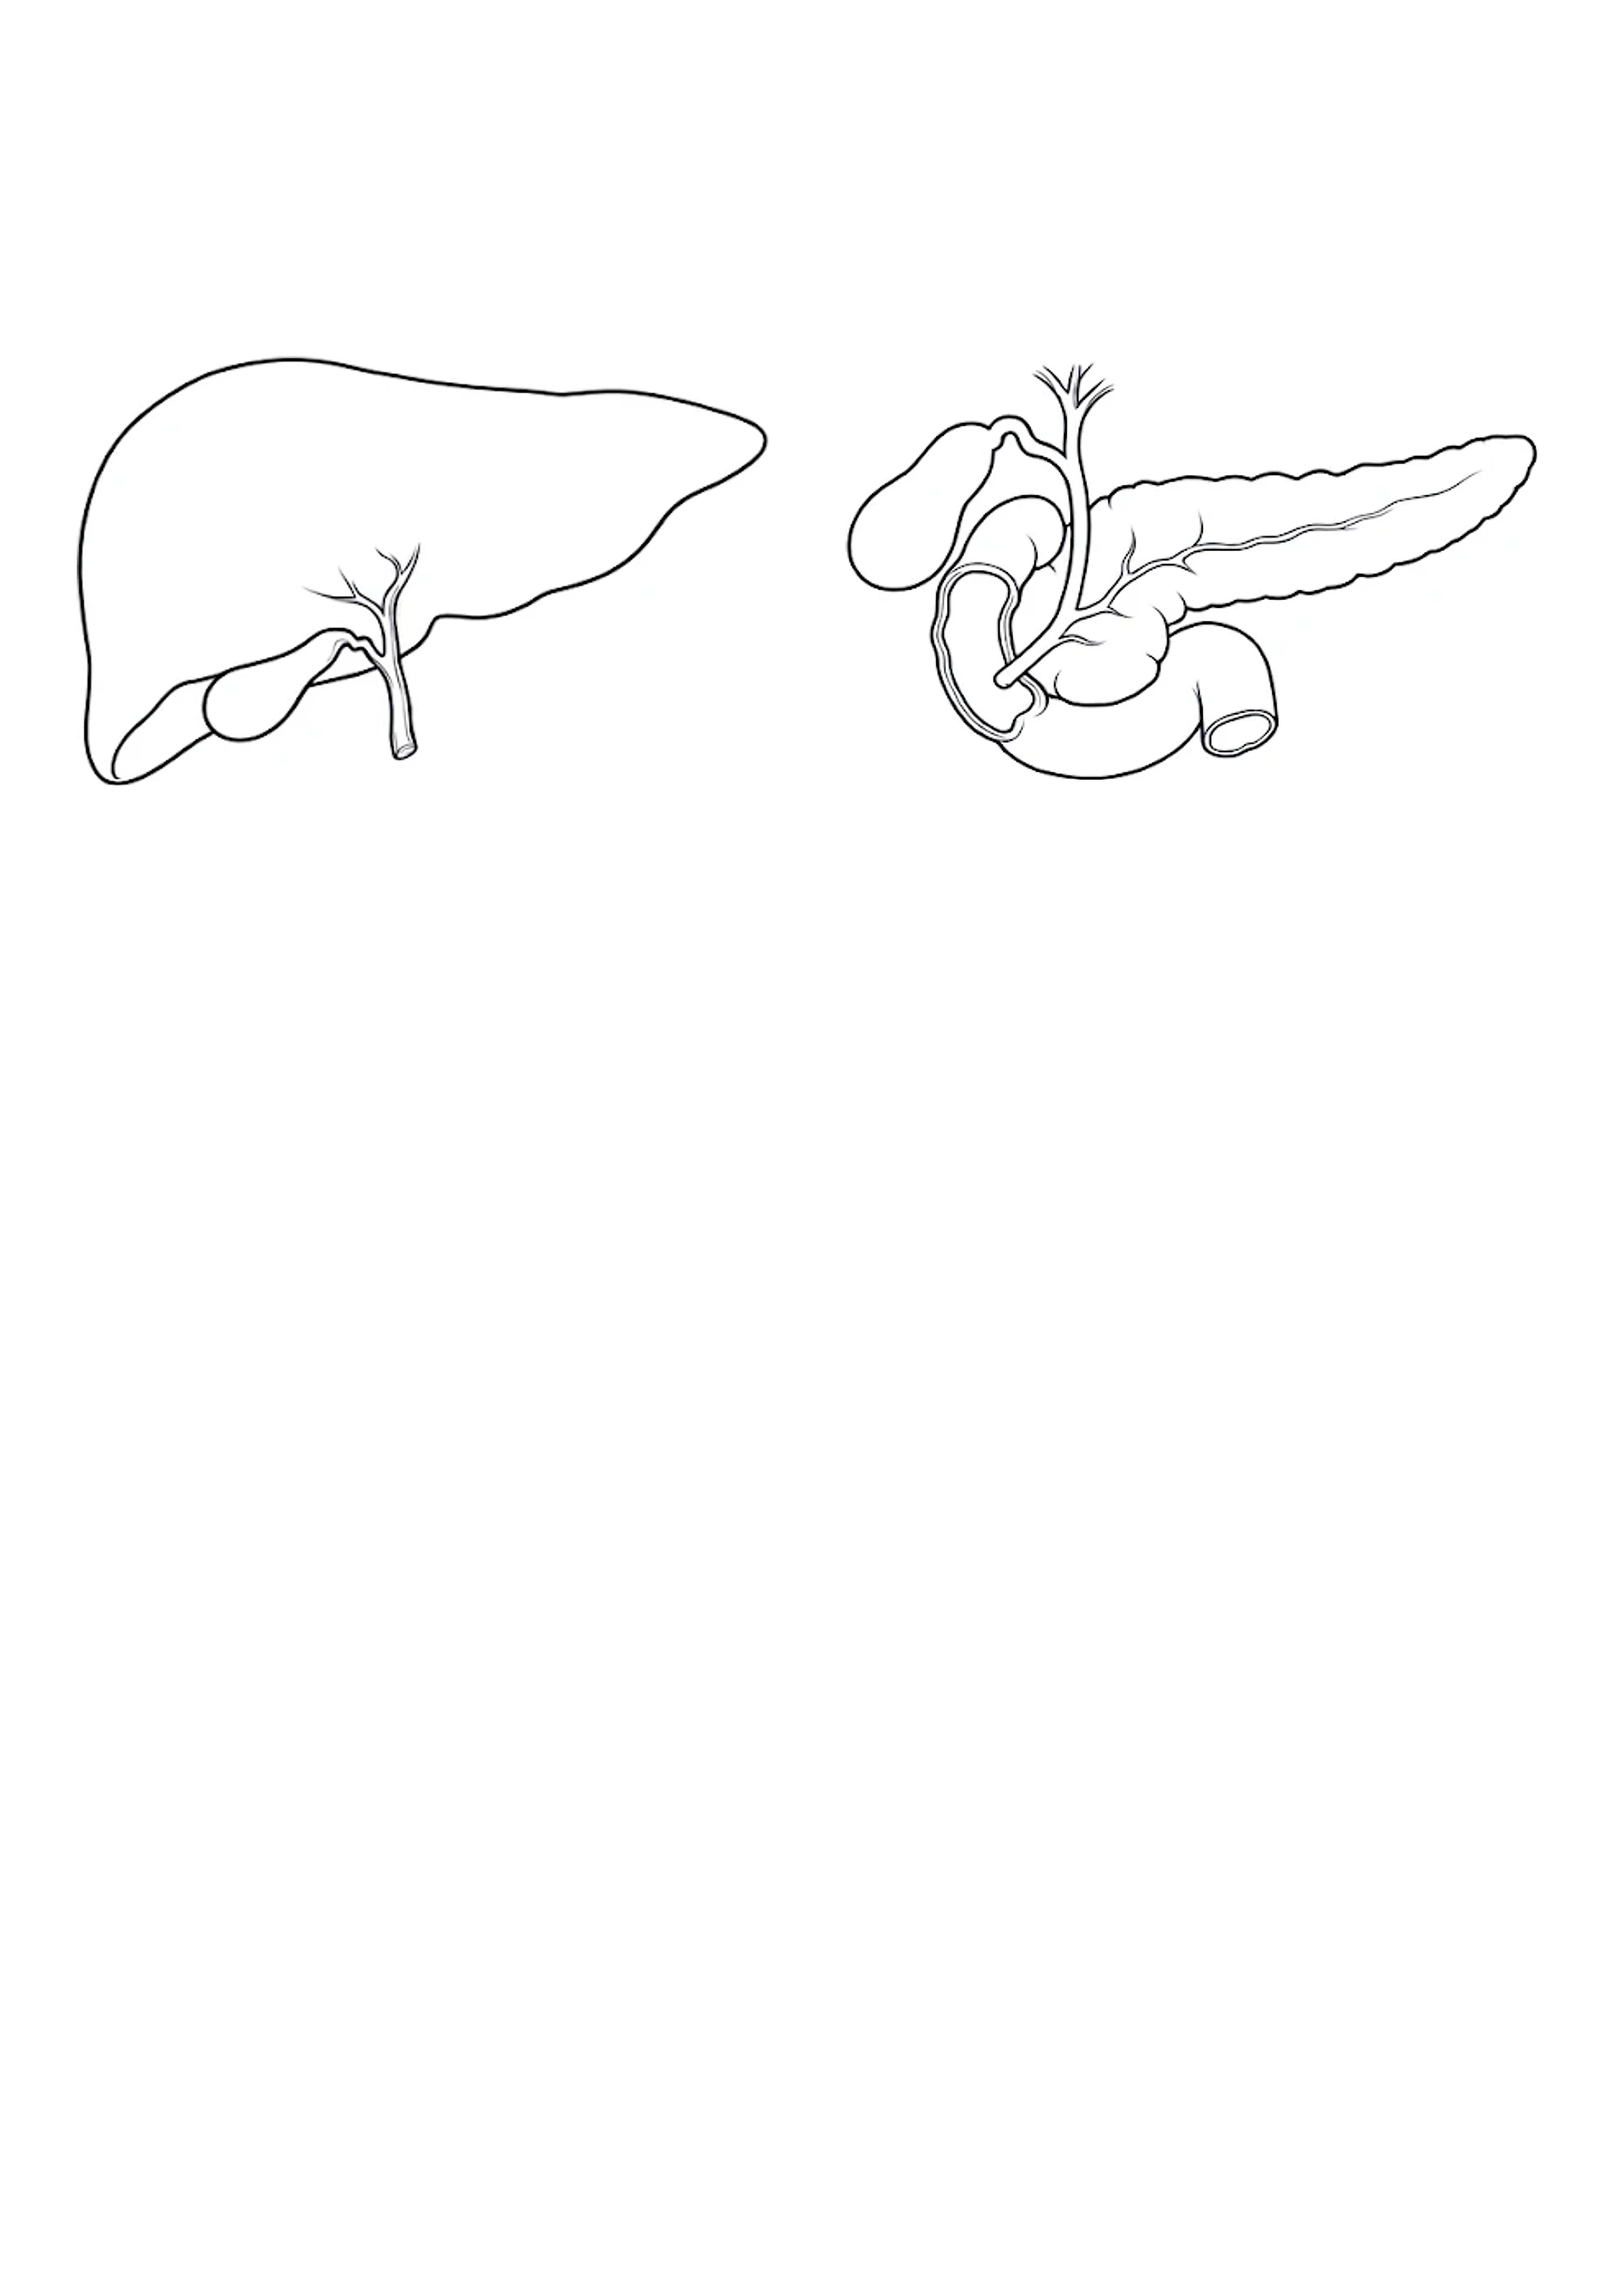
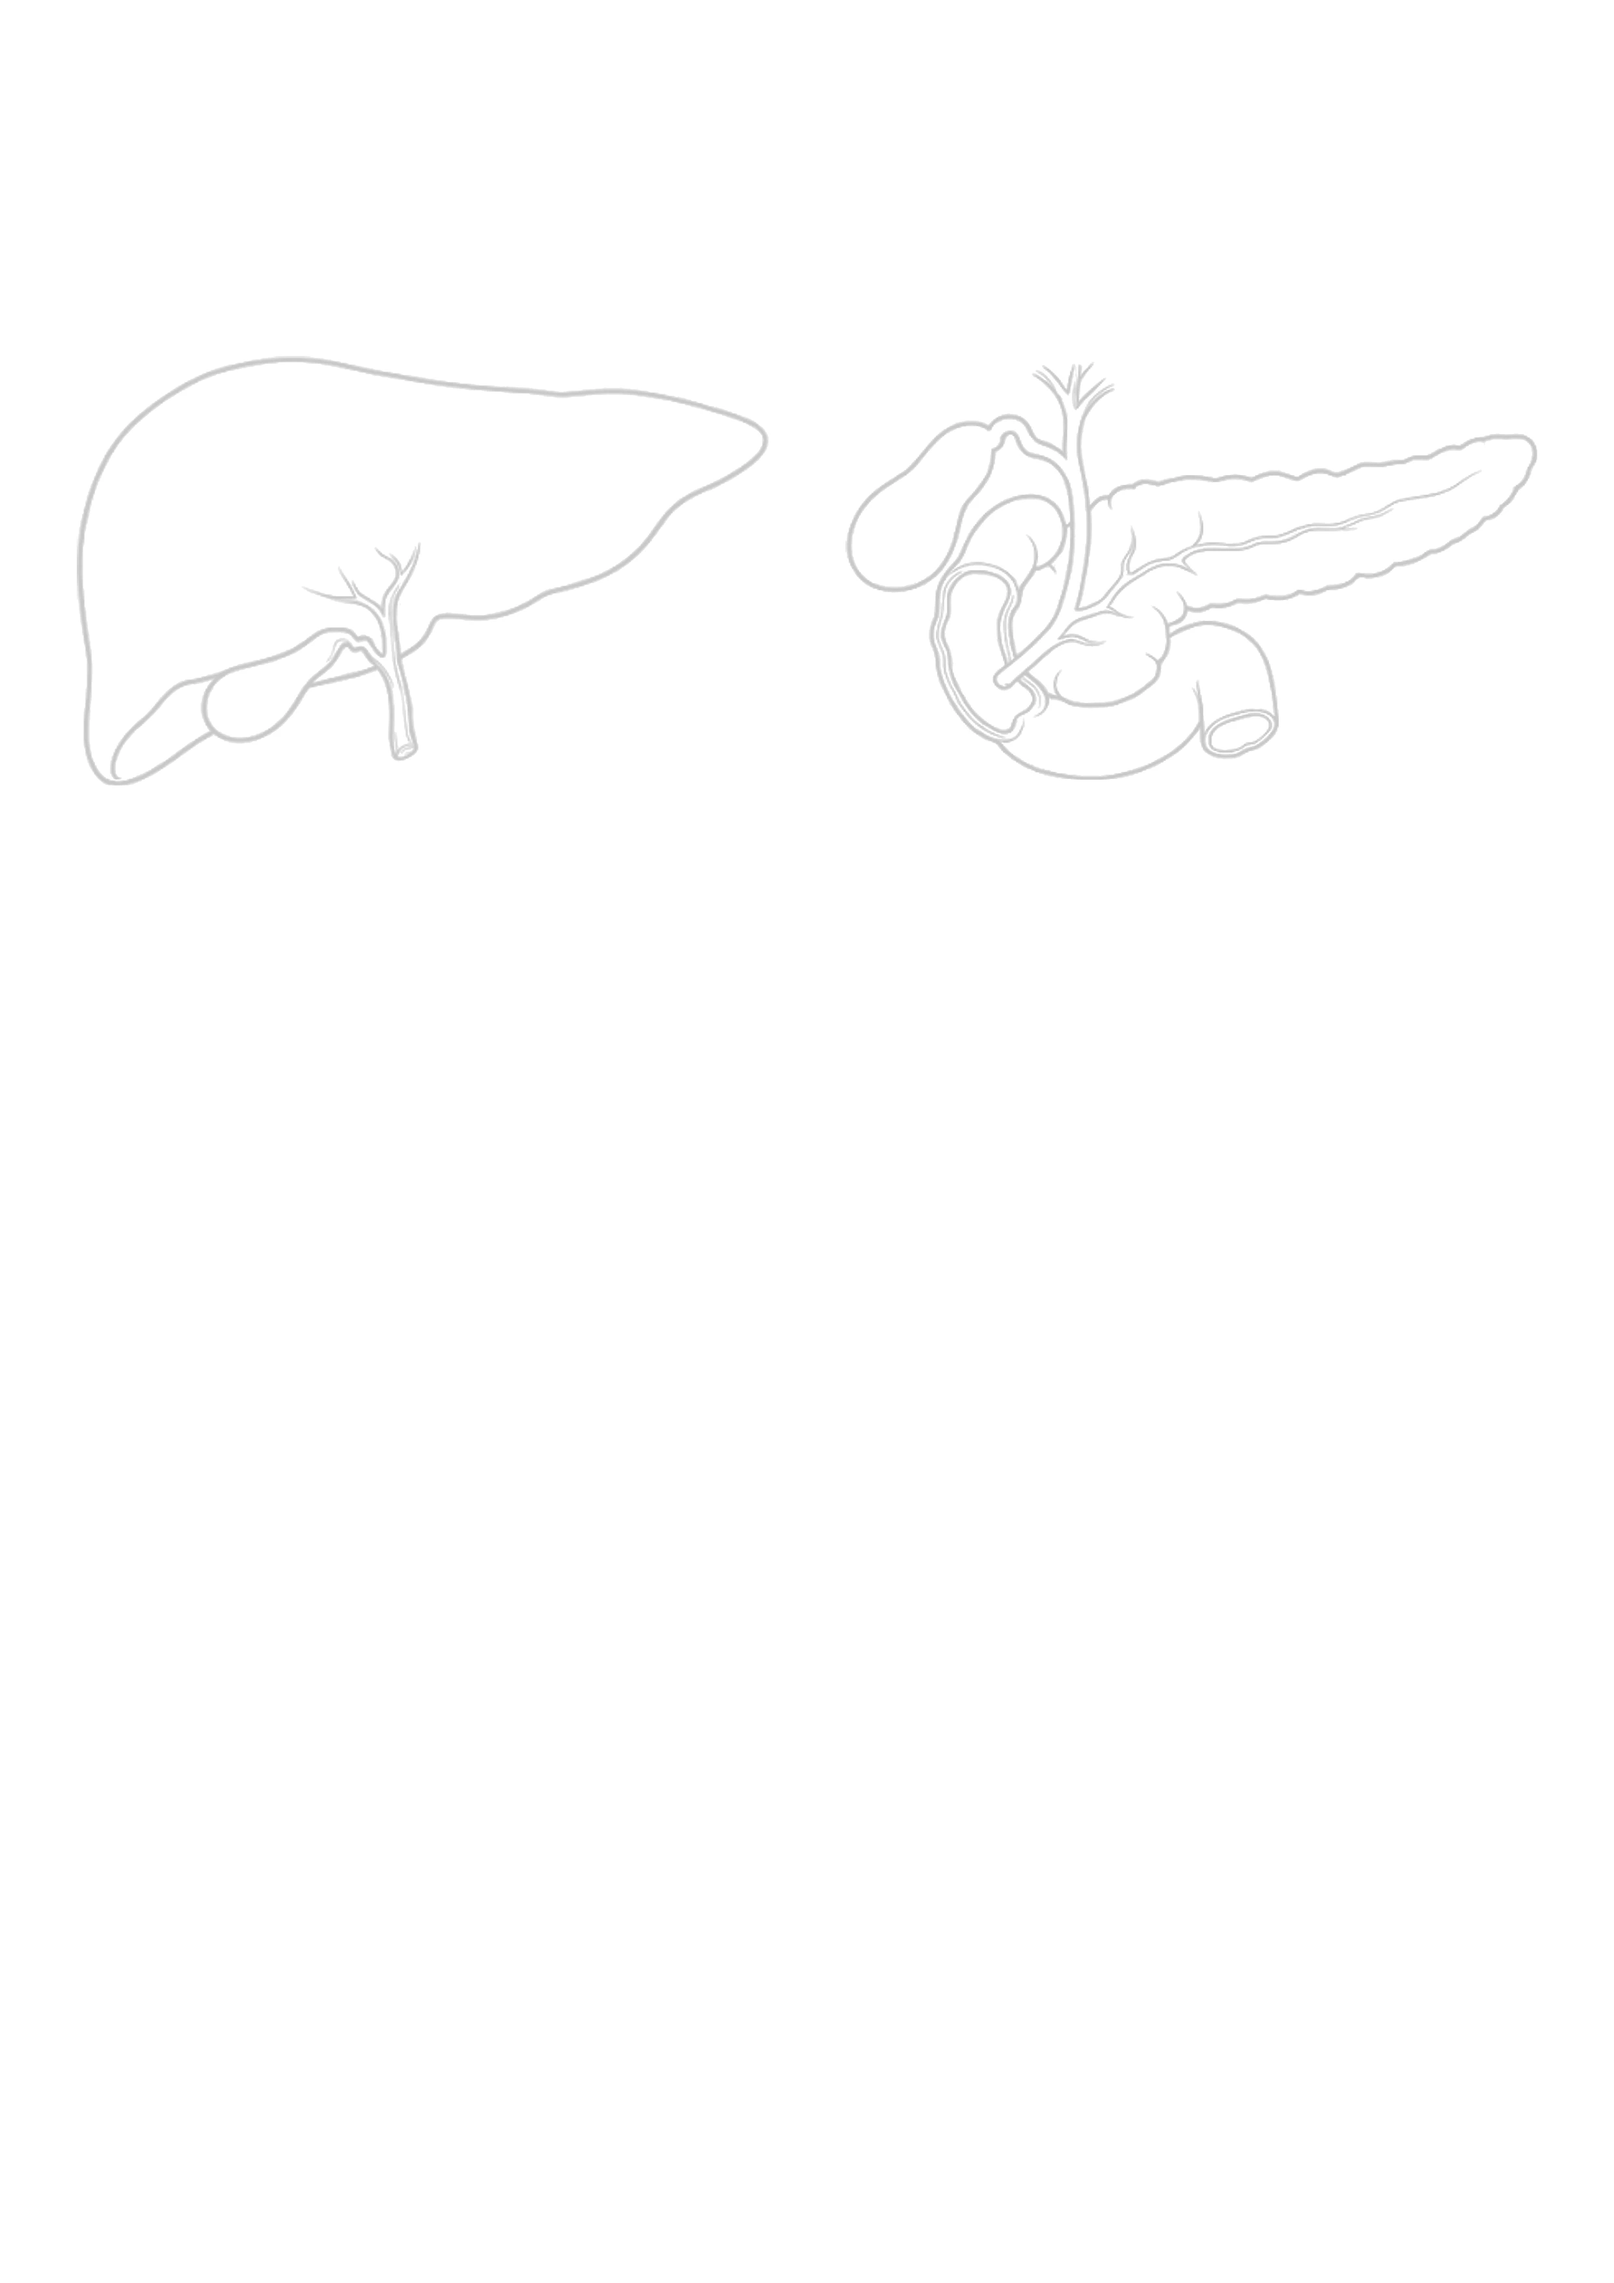
解剖圖稿改成灰階：黑線改為小腸線的灰（亮度約 200），小腸再淡一些（約 225）

diff --git a/edu-src/anatomy.html b/edu-src/anatomy.html
@@ -11,6 +11,8 @@
   在 A5 版面（A4 直式上半頁，2480 × 1754，300 dpi）裡左右各一格放到最大、置中。
   JOBS 的 scale 是放到最大之後再乘的倍數（左、右），縮小後仍在格子裡置中。
   四邊與中間留 10 mm。依 YT 2026-11-20 指示：不放頁首、頁尾、LINE QR code、LOGO。
+  灰階（YT 2026-11-24）：黑線改成原本大腸圖中小腸線的灰（亮度約 200），原本的小腸淡線再淡一些（約 225）。
+  做法見 toGray()：以「深度 = 255 − 亮度」計算，新深度 = GRAY_DARK ×（（舊深度 − GRAY_FLOOR）÷（255 − GRAY_FLOOR））^ GRAY_GAMMA。
   輸出的圖是整張 A4 直式（下半頁空白），跟其他 A5 衛教單同一套列印方式。
 -->
 </head>
@@ -22,6 +24,8 @@ const JOBS = [
 ];
 const PAGE_W = 2480, PAGE_H = 3508, A5_H = 1754;
 const MM = 300 / 25.4, PAD = Math.round(10 * MM), GAP = Math.round(10 * MM);
+const GRAY_DARK = 55, GRAY_GAMMA = 0.4, GRAY_FLOOR = 12;   // 深度 12 以下（原圖壓縮雜點）直接當白底，避免放大成灰點
+   // 黑線 → 亮度 255 − 55 = 200；小腸線（原亮度約 203）→ 約 225
 const INK = 235;   // 亮度低於這個值算線條（小腸的淡灰線也要算進去）
 
 const load = src=> new Promise((r, j)=>{ const im = new Image(); im.onload = ()=> r(im); im.onerror = j; im.src = src; });
@@ -56,6 +60,17 @@ function splitX(m){
   if(best[1] - best[0] < 20) throw new Error('找不到左右器官之間的空白');
   return Math.round((best[0] + best[1]) / 2);
 }
+// 整張改成灰階並調淡線條
+function toGray(c){
+  const g = c.getContext('2d'), img = g.getImageData(0, 0, c.width, c.height), d = img.data;
+  const lut = new Uint8ClampedArray(256);
+  for(let a = 0; a < 256; a++) lut[a] = 255 - GRAY_DARK * Math.pow(Math.max(0, a - GRAY_FLOOR) / (255 - GRAY_FLOOR), GRAY_GAMMA);
+  for(let k = 0; k < d.length; k += 4){
+    const v = lut[255 - Math.round(0.299 * d[k] + 0.587 * d[k + 1] + 0.114 * d[k + 2])];
+    d[k] = d[k + 1] = d[k + 2] = v;
+  }
+  g.putImageData(img, 0, 0);
+}
 async function build(job){
   const im = await load(job.src);
   const m = inkMap(im), mid = splitX(m);
@@ -73,6 +88,7 @@ async function build(job){
     g.drawImage(im, b.x, b.y, b.w, b.h, x, y, w, h);
     info.push(`${i ? '右' : '左'} ×${s.toFixed(2)}`);
   });
+  toGray(c);
   return {canvas: c, info: info.join('，')};
 }
 async function renderAll(only){

diff --git a/sw.js b/sw.js
@@ -9,7 +9,7 @@
    工作台開啟後會把所有衛教與表單圖片預先存下，斷網時也能顯示與列印。
    網路很慢（伺服器 3 秒內沒回應，圖片 6 秒）時先用快取開啟，背景照樣把新版存下，下次開啟就是新版；
    以前會一直等到連線逾時，網路卡住時整個工作台白畫面。 */
-const CACHE = 'tools-v107';
+const CACHE = 'tools-v109';
 const CORE = [
   './', 'index.html',
   'mount.js', 'revision.js',

diff --git a/revision.js b/revision.js
@@ -2,7 +2,7 @@
    工作台（index.html）與臨床計算病人版（calc/index.html）都先載入這份，各工具再從 REVISION 讀自己的日期。
    報價單上的「價目版本」不在這裡：價格有變才改，見 quote/app.js 的 Q_PRICE_VERSION。 */
 const REVISION = {
-  hub:     '2026-11-23',
+  hub:     '2026-11-24',
   quote:   '2026-11-19',
   calc:    '2026-11-22',
   weight:  '2026-11-19',
